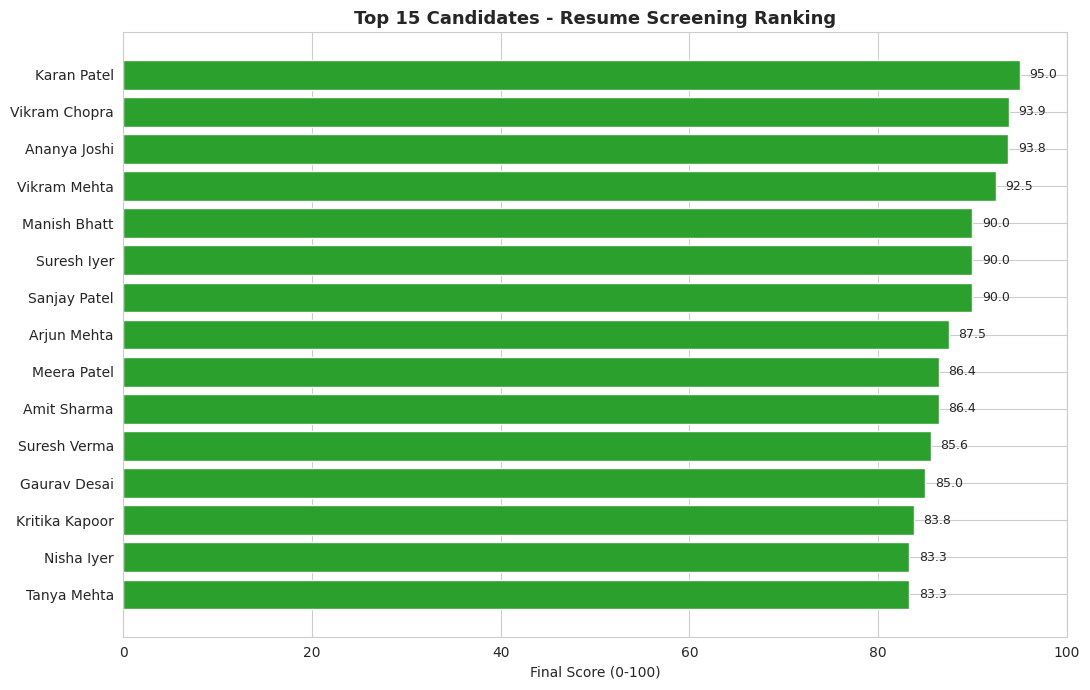
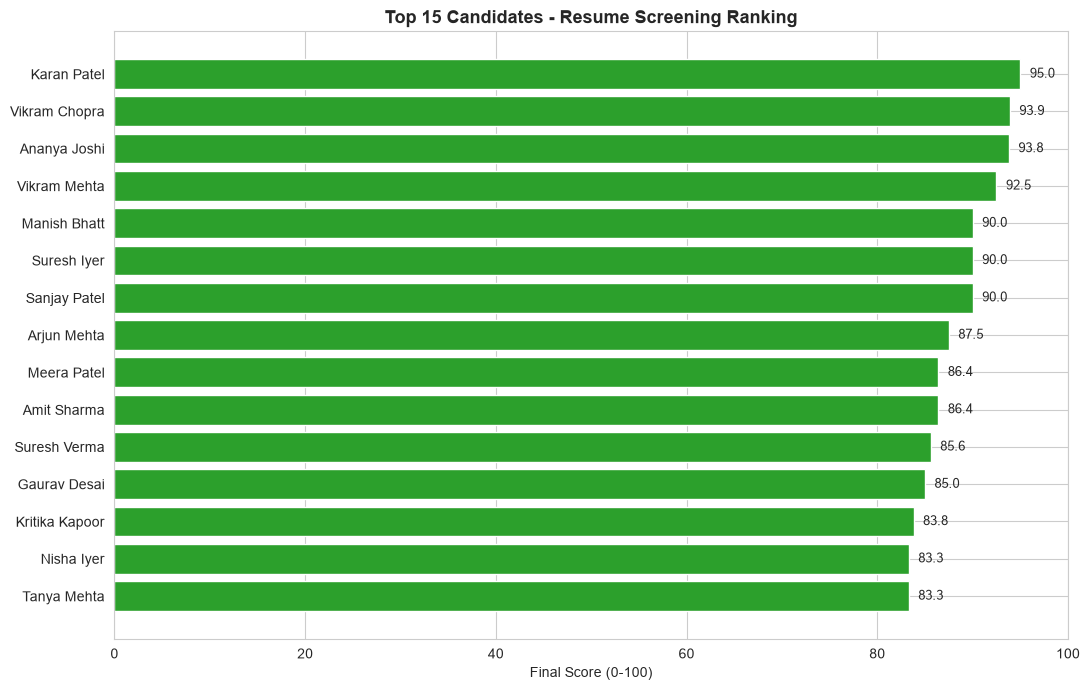
Update Task 3 project

diff --git a/resume_screening.py b/resume_screening.py
@@ -11,6 +11,8 @@ import pandas as pd
 import numpy as np
 import matplotlib.pyplot as plt
 import seaborn as sns
+import webbrowser
+import os
 
 sns.set_style("whitegrid")
 plt.rcParams["figure.dpi"] = 100
@@ -120,6 +122,9 @@ plt.tight_layout()
 plt.savefig("candidate_ranking.png", dpi=100, bbox_inches="tight")
 plt.close()
 print("Saved chart -> candidate_ranking.png")
+webbrowser.open_new_tab(
+    "file://" + os.path.abspath("candidate_ranking.png")
+)
 
 # ---------------------------------------------------------------
 # 6. Visualization 2: Skill gap heatmap (top 20 candidates)
@@ -144,6 +149,9 @@ plt.tight_layout()
 plt.savefig("skill_gap_heatmap.png", dpi=100, bbox_inches="tight")
 plt.close()
 print("Saved chart -> skill_gap_heatmap.png")
+webbrowser.open_new_tab(
+    "file://" + os.path.abspath("skill_gap_heatmap.png")
+)
 
 # ---------------------------------------------------------------
 # 7. Recruiter summary
@@ -169,7 +177,7 @@ summary_lines = [
     f"Moderate Fit (score 55-74): {moderate_count} candidates",
     f"Weak Fit (score < 55):      {weak_count} candidates",
     "",
-    "TOP 10 RECOMMENDED CANDIDATES",
+    "TOP 10 RANKED CANDIDATES",
     "-" * 50,
 ]
 
@@ -190,11 +198,11 @@ for skill, count in most_common_missing.head(5).items():
 
 summary_lines += [
     "",
-    "RECOMMENDATION",
+    "SCREENING SUMMARY",
     "-" * 50,
-    f"Proceed to interview stage with the {strong_count} 'Strong Fit' candidates first.",
-    "Consider 'Moderate Fit' candidates if Strong Fit pool is insufficient,",
-    "prioritizing those missing only 1-2 required skills.",
+    f"{strong_count} candidates are classified as 'Strong Fit' based on the scoring criteria.",
+    f"{moderate_count} candidates are classified as 'Moderate Fit'.",
+    "Final interview and hiring decisions should be made by the recruiter.",
 ]
 
 with open("recruiter_summary.txt", "w") as f:
